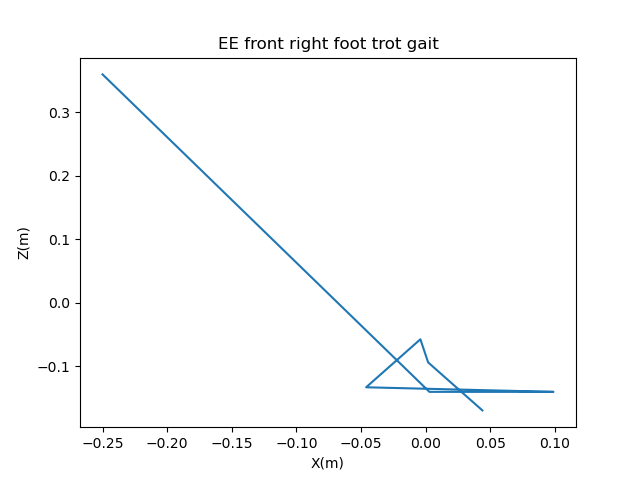
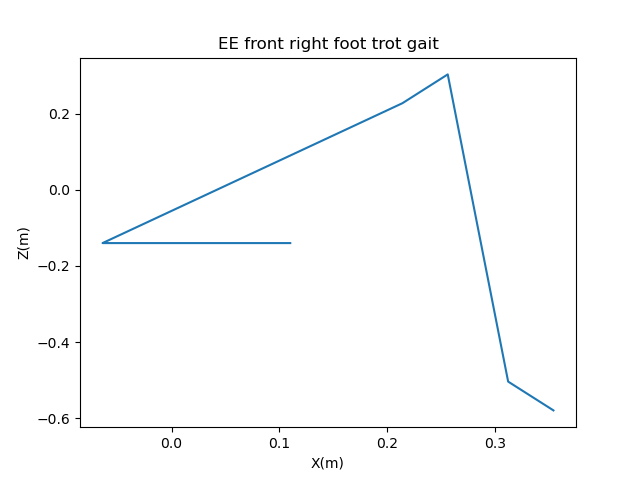
interpolate ver2

diff --git a/Labs/Lab3/lab_3_playground.py b/Labs/Lab3/lab_3_playground.py
@@ -90,7 +90,6 @@ class InverseKinematics():
         ]) + lb_ee_offset
 
 
-
         self.ee_triangle_positions = [rf_ee_triangle_positions, lf_ee_triangle_positions, rb_ee_triangle_positions, lb_ee_triangle_positions]
         self.fk_functions = [self.fr_leg_fk, self.fl_leg_fk, self.br_leg_fk, self.bl_leg_fk]
 
@@ -151,34 +150,61 @@ class InverseKinematics():
         return res.x
 
     def interpolate_triangle(self, t, leg_index):
-        half_base_length = 0.05
-        height = 0.09
 
-        if leg_index==0 or leg_index==2:
-            if 0 < t < 4/6:
-                res_x = t/(4/6) * 2*half_base_length
-                res_z = -0.14
-            elif 4/6 <= t < 5/6:
-                res_x = -0.05 + (t-4/6)/(1/6) * half_base_length
-                res_z = -0.14 + (t-4/6)/(1/6) * height
-            else:
-                res_x = 0 + (t-5/6)/(1/6) * half_base_length
-                res_z = -0.09 - (t-5/6)/(1/6) * height
+        # returns position. 
+        # for a specific ee_triangle_positions[leg_index] (e.g. rf_ee_triangle_positions),
+        # compare proportion between:
+        # distance: (rf_ee_triangle_positions[t+1] - rf_ee_triangle_positions[t+1])
+        # time: t out of 1
+
+        if 0 <= t < 1/6:
+            res = self.ee_triangle_positions[leg_index][0] + t/(1/6)*(self.ee_triangle_positions[leg_index][1] - self.ee_triangle_positions[leg_index][0])
+
+        elif 1/6 <= t < 2/6:
+            res = self.ee_triangle_positions[leg_index][1] + t/(1/6)*(self.ee_triangle_positions[leg_index][2] - self.ee_triangle_positions[leg_index][1])
+
+        elif 2/6 <= t < 3/6:
+            res = self.ee_triangle_positions[leg_index][2] + t/(1/6)*(self.ee_triangle_positions[leg_index][3] - self.ee_triangle_positions[leg_index][2])
+
+        elif 3/6 <= t < 4/6:
+            res = self.ee_triangle_positions[leg_index][3] + t/(1/6)*(self.ee_triangle_positions[leg_index][4] - self.ee_triangle_positions[leg_index][3])
+          
+        elif 4/6 <= t < 5/6:
+            res = self.ee_triangle_positions[leg_index][4] + t/(1/6)*(self.ee_triangle_positions[leg_index][5] - self.ee_triangle_positions[leg_index][4])
+        
+        else:
+            res = self.ee_triangle_positions[leg_index][5] + t/(1/6)*(self.ee_triangle_positions[leg_index][0] - self.ee_triangle_positions[leg_index][5])
+          
+        return res
+    
+        # half_base_length = 0.05
+        # height = 0.09
+
+        # if leg_index==0 or leg_index==2:
+        #     if 0 < t < 4/6:
+        #         res_x = 0.05+ t/(4/6) * 2*half_base_length
+        #         res_z = -0.14
+        #     elif 4/6 <= t < 5/6:
+        #         res_x = -0.05 + (t-4/6)/(1/6) * half_base_length
+        #         res_z = -0.14 + (t-4/6)/(1/6) * height
+        #     else:
+        #         res_x = 0 + (t-5/6)/(1/6) * half_base_length
+        #         res_z = -0.09 - (t-5/6)/(1/6) * height
             
-        if leg_index==1 or leg_index==3:
-            if 0 < t < 1/6:
-                res_x = t/(1/6) * half_base_length/2
-                res_z = -0.14
-            elif 1/6 <= t < 2/6:
-                res_x = -0.05 + (t-1/6)/(1/6) * half_base_length
-                res_z = -0.14 + (t-1/6)/(1/6) * height
-            elif 2/6 <= t < 3/6:
-                res_x = 0 + (t-2/6)/(1/6) * half_base_length
-                res_z = -0.09 - (t-2/6)/(1/6) * height
-            else:
-                res_x = (t-4/6)/(3/6) * 1.5*half_base_length
-                res_z = -0.14
-        return [res_x, 0, res_z]
+        # if leg_index==1 or leg_index==3:
+        #     if 0 < t < 1/6:
+        #         res_x = t/(1/6) * half_base_length/2
+        #         res_z = -0.14
+        #     elif 1/6 <= t < 2/6:
+        #         res_x = -0.05 + (t-1/6)/(1/6) * half_base_length
+        #         res_z = -0.14 + (t-1/6)/(1/6) * height
+        #     elif 2/6 <= t < 3/6:
+        #         res_x = 0 + (t-2/6)/(1/6) * half_base_length
+        #         res_z = -0.09 - (t-2/6)/(1/6) * height
+        #     else:
+        #         res_x = (t-4/6)/(3/6) * 1.5*half_base_length
+        #         res_z = -0.14
+        # return [res_x, 0, res_z]
 
     def cache_target_joint_positions(self):
         # Calculate and store the target joint positions for a cycle and all 4 legs
